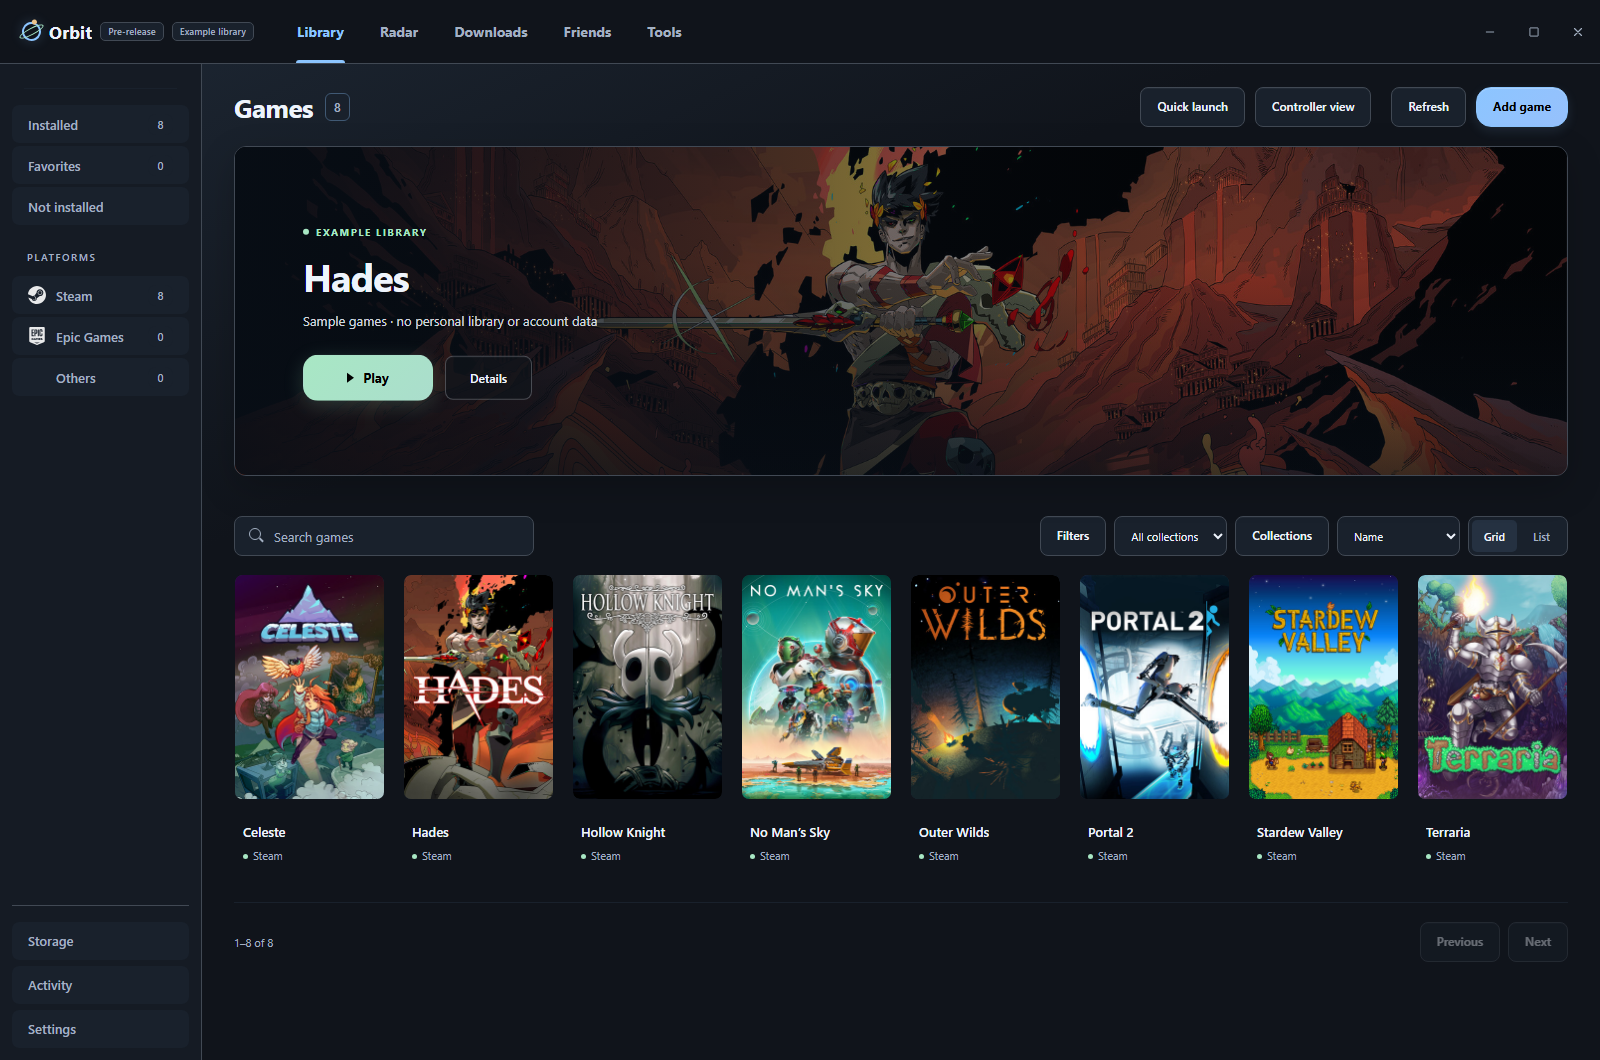
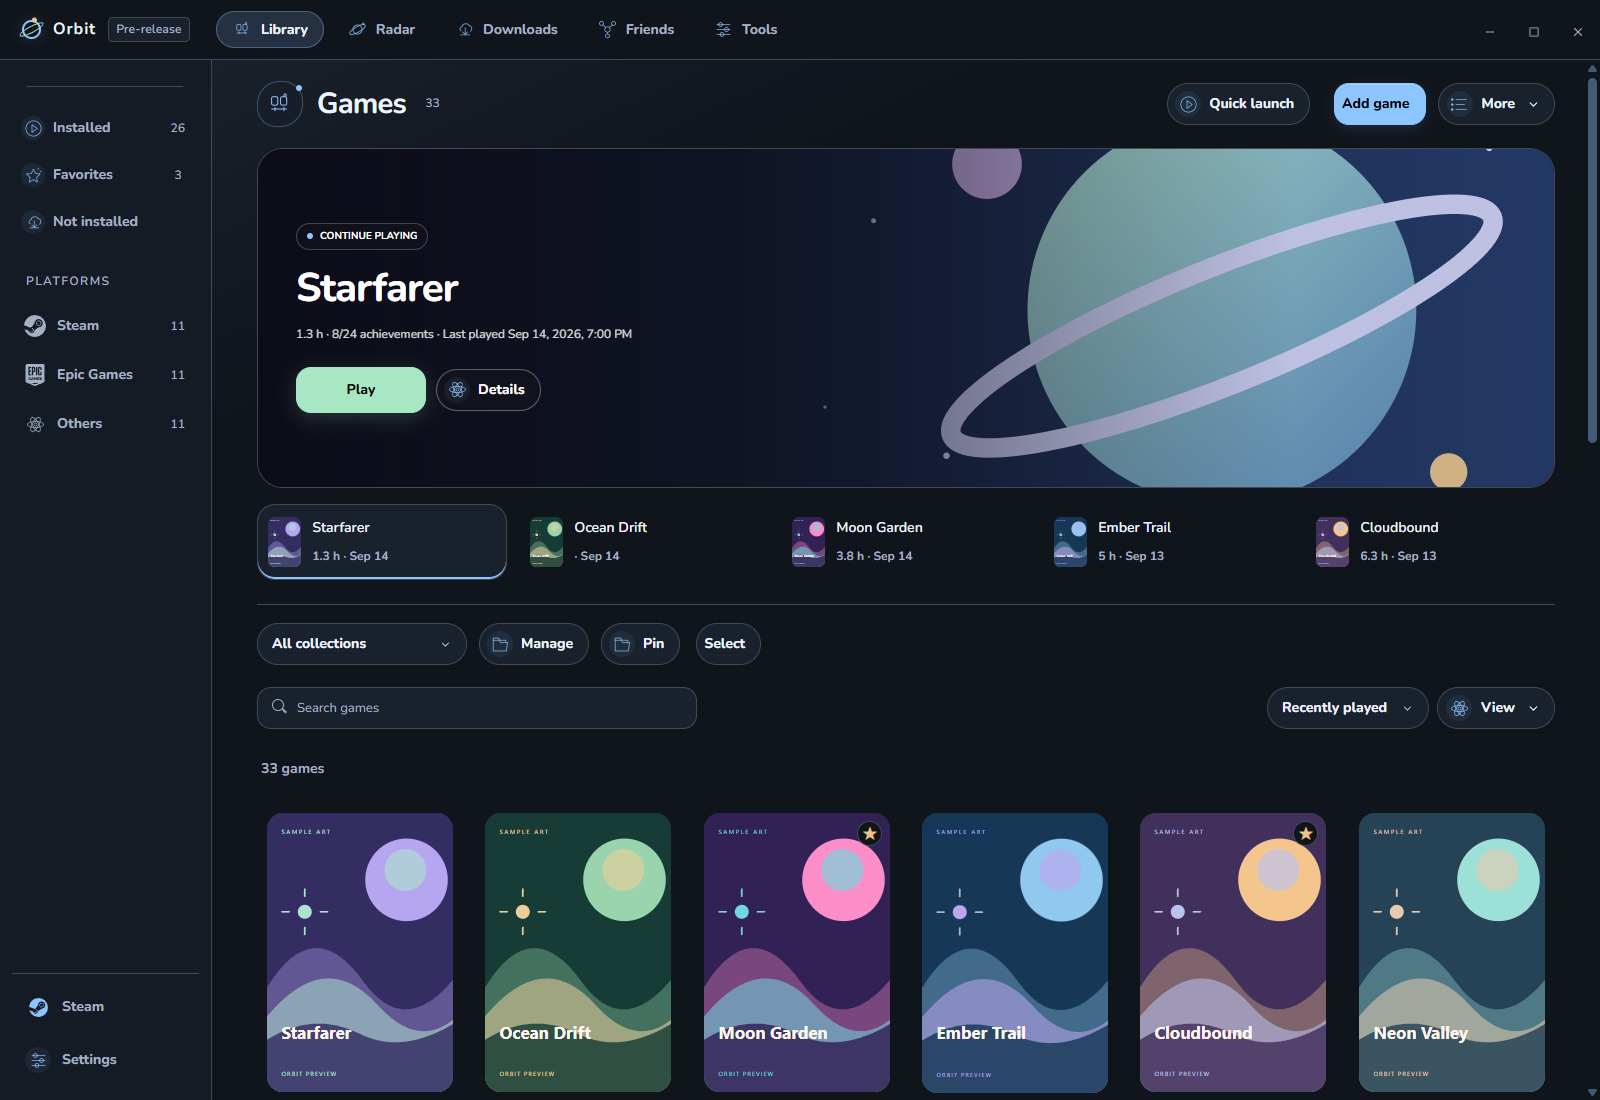
Simplify README and refresh feature screenshots

diff --git a/README.md b/README.md
@@ -1,84 +1,73 @@
 # Orbit
 
-Orbit is a Windows desktop app for organizing and launching games from connected libraries and local files. It is currently a pre-release: features may change, and some integrations are still being tested.
+A Windows launcher for your game libraries, local games, and tools. Find something to play, organize your collection, and launch it from one place.
 
-![Orbit interface with an example library](docs/screenshots/orbit-library.png)
+![Orbit with an example Desktop library](docs/screenshots/orbit-library.png)
 
-*Shown with example games; no personal library or account data.*
+*Screenshots use sample data from the current development build. Published builds may differ. Orbit is in pre-release.*
 
-## Install and open
+## Get started
 
-Download **Orbit-Setup.exe** from [Releases](https://github.com/tkokero/Orbit/releases) and run it. For portable use, extract the entire **Orbit-Windows.zip** folder before opening **Orbit.exe**. The Windows builds are unsigned.
+Download **Orbit-Setup.exe** from [Releases](https://github.com/tkokero/Orbit/releases). For portable use, extract the entire Windows ZIP before opening Orbit. Windows builds are unsigned.
 
-First run opens a single Quick start screen. Choose Open library immediately, expand optional connections and preferences, or take a guided tour with an animated atom that follows each part of the interface. Reopen it from **Settings → General**. Keep any original clients your games require.
+Use Quick start to find games and choose optional connections. **Take a tour** shows the main controls; reopen it from **Settings → General**. Keep any original clients your games require.
 
-## Library and launching
+## Your library
 
-- Browse **Library** and **Tools**, search titles and alternate names, or filter by platform, installation status, and other available information.
-- Organize entries with favorites, collections, personal tags, and notes. Choose grid or list view.
-- Detected copies stay together in game details. Select a preferred launch; automatic selection favors a working installed copy, then Steam.
-- Open details to manage launch settings, choose an executable, create a desktop shortcut, or view available playtime and achievements. Right-click for quick actions, or press **Ctrl+K** for Quick launch. Use **Ctrl+F** to focus library search and **Esc** to clear it. **Collections** has a visible library filter and a Manage button; **View** switches layouts; **More** contains refresh, controller view, and shortcut help. Right-click a game (or press **Shift+F10** while focused) for quick actions. Secondary file and launch controls are under **Game options** in Details.
-- Add local executables or run a standalone installer. Other installations and some launch routes use the original client.
+- Browse covers, landscape banners, or a list. Adjust card size and spacing.
+- Search, filter, favorite, and pin collections in the sidebar.
+- Use Ctrl/Shift selection to organize several games together, with Undo for bulk changes.
+- Open Details for game copies, launch settings, artwork, notes, and available statistics. Right-click for related actions.
+- Press **Ctrl+K** for Quick launch or **Ctrl+F** to search your library.
 
-Detection identifies local installations and supported account records; finding a launcher does not prove ownership. Information and features depend on the platform, account privacy, and game. Missing information is shown as unavailable.
+![Selecting and organizing example games](docs/screenshots/orbit-organization.png)
 
-**Controller view** opens a fullscreen home with recent games and discovery cards, a separate cover-grid library, artwork-led game pages, and an illustrated navigation sidebar. Downloads, settings, shelves, and other sidebar destinations have dedicated controller layouts. Choose among three space-themed controller arrivals in Controller Settings. Tap Menu/Options for navigation, hold it for game actions, and use the shoulder buttons to switch information tabs. Controller prompts follow the active device; moving the mouse restores the cursor. Settings include navigation timing, stick deadzone, and specific button bindings. Orbit stays visible while a game starts, switches when its detected window is ready, and returns to your controller selection after the session ends. Orbit Shuffle, personal shelves, Guest mode, and returning to the last game make the library easier to use from the couch. See [Controller Mode](CONTROLLER.md) for controls and supported-device limitations.
+Orbit combines detected copies and lets you choose a preferred launch. Add executables or import supported libraries. Detection and statistics depend on the provider; finding a launcher or old play history does not prove ownership.
 
-Popup menus can be resized from the corner on Desktop. In **Settings → Appearance**, share a size across popups or remember separate sizes for each menu. Text stays readable as content adapts to the frame.
+## Friends
 
-## News, friends, and downloads
+See supported Steam and Discord friends, search by name, and review suggested profile links. Linking requires your confirmation. Online puts playing friends first, followed by Do Not Disturb and plain online; other states remain in All friends.
 
-**What’s new** shows Steam announcements for selected games in your library, with banner images and links to the original posts. News and artwork are cached; not every game has a supported feed.
+![Friends with sample profiles](docs/screenshots/orbit-friends.png)
 
-**Friends** shows presence and shared activity where supported. Some platforms provide official-client controls instead of live friend lists. Account connections are optional.
+Discord friends requests basic identity and read-only relationships access and needs the Discord desktop client. Epic is client-only. Optional **Discord Rich Presence** has separate sharing controls in **Settings → Privacy**.
 
-Optional **Discord Rich Presence** is in **Settings → Privacy**. Enable Share activity on Discord, then expand **Visibility and games** to choose which games are shared and whether names, session time, menu activity, and background activity appear. Hidden library games and Guest mode stay private. Changes save automatically; no Application ID setup or bot is needed. Presence includes the Orbit logo and a link to this GitHub repository. Discord’s desktop app must be running. Orbit shares one detected game at a time and continues while in the tray; sharing pauses in Offline mode and clears when disabled or Orbit quits. No Discord token or client secret is needed.
+## Downloads and Steam
 
-**Downloads** brings installer downloads and supported launcher progress together. The current transfer appears above the queue with game artwork, live progress, and available speed and time estimates. Open a Steam game’s transfer to control that game without navigating the rest of the queue. Save a direct HTTPS installer from its publisher, cancel a transfer, or run a downloaded .exe or .msi through Orbit’s install menu. Ready installers remain available after restarting Orbit. Game content from Steam, Epic Games, and other protected stores stays with its original client, including pause, resume, ordering, and bandwidth controls. Transfer estimates appear when enough data is available.
+Follow supported downloads with artwork, progress, and available speed estimates. Steam controls group **Downloads**, **Storage**, and **Connection**, including folder space and supported queue actions.
 
+![Example Steam download controls](docs/screenshots/orbit-steam.png)
 
-**Steam controls** offers an experimental connection to Steam’s private client interface. Steam runs in the background while Orbit provides library-folder selection, install and uninstall requests, game moves, download pause/resume, queue ordering, and a bandwidth limit. Enabling the connection restarts Steam and opens a loopback debugging channel; use it only on a trusted computer. Steam updates can break compatibility, and some license, sign-in, or publisher prompts still require your attention. Supported client controls remain available explicitly. Quit Steam and reopen it normally to turn off its debugging channel. Orbit does not patch Steam or automatically accept agreements.
+The optional experimental Steam connection restarts Steam and opens a local debugging channel. Use it only on a trusted computer. Steam updates can break compatibility; sign-in, agreements, and some operations still need the original client. Restart Steam normally to disable the channel.
 
-**Radar** contains a calendar of dated PC and console releases for the next 31 days from Steam and GamesRadar+, your wishlist, and featured Steam discounts. The calendar refreshes every 12 hours while Orbit runs and keeps saved dates available offline. Date tiles feature game previews, using Steam wishlist order where available and featured listings otherwise. Add, edit, or remove custom releases and their preview images for any platform; these are stored locally. Coverage varies, and planned release dates can change. Save public store links and optional target prices; check supported prices on request. Prices are regional and may be cached. Confirm the final price on the store page. Other stores can be saved as links.
+**Radar** brings together upcoming releases, your wishlist, and Steam deals. Game news opens inside Orbit with photos and working links. Dates and prices can change; check the original store before purchasing.
 
-## Sessions, storage, and backups
+## Make it yours
 
-Orbit detects supported games running fullscreen, minimized, or tabbed out, including games launched outside Orbit. Multiple games can be tracked at once while Orbit is running or in the tray. Local playtime totals are used when platform hours are unavailable; platform totals are kept separate. Game details include **Game detection**, which shows expected processes and scan results and lets you choose the actual game executable. Launch feedback distinguishes a sent request from a detected running process. Detection runs periodically, so a new game may take up to 30 seconds to appear. **Activity** shows recorded sessions; **Storage** shows drive usage and searchable installations, with size sorting and folder measurements on demand. Choose **Uninstall** from Storage or a game’s options to select an installed copy. Orbit opens a verified registered uninstaller where supported, or guides you to the original client or Windows installed apps. Game files are never removed by deleting a folder.
+Choose themes, custom colors, backgrounds, fonts, and startup scenes. Switch between Overlay and Split banners. Resize Desktop popups from their corners and remember shared or separate sizes. Accessibility includes text scaling, stronger focus, contrast, and reduced motion.
 
-Choose a save folder in a game’s details to create local save snapshots. Restore previews changes and keeps a recovery copy. Optional automatic snapshots run after detected sessions. Close the game before restoring, and keep another backup elsewhere.
+![Orbit appearance settings](docs/screenshots/orbit-appearance.png)
 
-**Settings → Manage** can back up Orbit preferences and local hours, restore hidden entries, review launch problems, and export information. Preference backups do not include game files or account credentials. Themes and interface choices also save to your Orbit profile, with a previous saved copy available for recovery.
+Settings and themes stay in your local profile. **Settings → Manage** includes preference backups, recovery tools, exports, and updates.
 
-## Settings and updates
+## Controller mode
 
-Drag the sidebar’s right edge to resize it, double-click to reset it, or focus the divider and use the arrow keys. Its width is remembered on this computer.
+Use larger controls, gamepad navigation, configurable bindings, and artwork-led game pages. Orbit handles supported game launch and return transitions. See [Controller Mode](CONTROLLER.md) for controls and limitations.
 
-Settings cover discovery, startup, closing to the tray, notifications, themes, accessibility, and updates. Hover over an info icon for help, focus it with the keyboard, or click to keep the explanation open. Themes support custom image backgrounds with automatic or manually chosen accent colors. Appearance also supports a local custom interface font, with a reset to the default font. Choose from space-themed startup animations and hidden scenes or import a local MP4/WebM video up to 15 seconds, 1080p, and 64 MB. Startup scenes have optional quiet sound cues with a volume control, off by default. Playback is skippable and respects reduced-motion preferences. Custom videos remain muted and are stored separately from exported themes. The installed version can download and install published updates while games keep running. Orbit saves playtime, resumes manual timers, and keeps automatic restarts in the background during play. File operations finish before Orbit restarts. Portable updates are manual. Draft releases are not available to the public updater.
+![Controller library with example games](docs/screenshots/orbit-controller.png)
 
-Artwork conversions run through a bounded queue, and offscreen or hidden pages release their displayed images. Cached artwork can load without starting the image decoder. Closing the window normally keeps Orbit in the tray for tracking and background tasks; the unused library window unloads after a short delay. Use the tray menu to quit. Offline mode stops new online checks; cached information may be outdated, and games retain their own authentication requirements.
+## Sessions and backups
 
-System information and approximate performance estimates use the current computer’s detected hardware. FPS figures are estimates, not measured benchmarks.
+Orbit tracks supported running games, including launches outside Orbit. Activity shows local sessions; platform-reported hours stay separate. Storage shows installations and drive space.
 
-The full build number and **Report an issue** are in **Settings → About**. Include reproduction steps when reporting a problem; do not share account keys or private files.
+Choose a save folder to make local snapshots. Restore previews changes and keeps a recovery copy. Close the game before restoring, and keep another backup elsewhere.
 
-## Development versions
+Closing Orbit normally leaves tracking and essential services in the tray. The interface targets low-maintenance mode after two seconds when no dialog or protected operation is active. Use the tray menu to quit.
 
-0.x builds are development releases; **Orbit 1** is reserved for the first stable generation. Within a generation, numbered updates contain fixes and small additions, while the .5 milestone is a larger refinement update. A new Orbit generation indicates substantial completed changes.
+Installed builds receive published updates. Draft releases are excluded. Offline mode uses cached information; games keep their own sign-in requirements.
 
-The original release is labeled **0.1** but retains its legacy 1.x tag and internal version for compatibility. To move from that build to 0.2, run the 0.2 installer once and quit any older tray copy first. Older 1.x updaters cannot recognize 0.2 as newer. Back up preferences before migrating.
+## Help and source
 
-## Source and license
+Report problems from **Settings → About**, including steps to reproduce them. Leave private account information out of reports.
 
-Orbit is [MIT licensed](LICENSE). See [CONTRIBUTING.md](CONTRIBUTING.md) for build instructions and [THIRD_PARTY.md](THIRD_PARTY.md) for dependency notices. Source archives attached to releases contain the corresponding build’s source and tests.
-
-Orbit releases the interface after 30 seconds hidden in the tray when no dialog or file operation is open. Game tracking and update checks continue. Reopening uses the cached library. Settings → Appearance includes a graphics-memory option; changing it requires quitting and reopening Orbit.
-
-Steam games use silent client startup when Steam is detected. Set per-game launch options from **Manage → Launch settings** in the right-click menu. Separate options with spaces and quote values containing spaces. Steam may also apply its own saved options; move those into Orbit if you want to manage them in one place. Game-specific dialogs can still appear.
-
-Orbit offers an in-app chooser for supported Windows launch modes found in Steam’s local cache, with an optional remembered choice. Change it under **Launch settings → Launch mode**. Selected modes launch their game executable directly; Steam services and game-specific prompts may still be required. **Use Steam default** remains available. Detected running games offer **Close game** from the running-game bar, Details, and right-click menu. Orbit requests a normal close first; **Force close** ends the verified game task through Windows. Orbit shows its own confirmation, with **Do not show again** available for each warning. Re-enable normal-close and force-close warnings separately in **Settings → General**. Force closing can lose unsaved progress.
-
-Roblox closing controls include its background game clients and related crash helpers. Roblox Studio stays separate.
-
-Desktop and Controller Mode share icons, theme colors, and rounded controls. Desktop uses compact navigation, mouse and keyboard menus, and denser settings; Controller Mode uses larger targets and gamepad focus. Download and game-menu artwork keeps its original proportions. Controller sounds have independent volume and mute controls.
-
-Steam announcements open in Orbit’s news reader from What’s new or a game’s news list. Read the full article, scroll with the controller, and return to the previous menu. **Open in browser** remains available for the original Steam page.
+Orbit is [MIT licensed](LICENSE). See [CONTRIBUTING.md](CONTRIBUTING.md) for building from source, [PRIVACY.md](PRIVACY.md) for data handling, and [THIRD_PARTY.md](THIRD_PARTY.md) for notices. Hardware performance estimates are approximate, not measured benchmarks.
